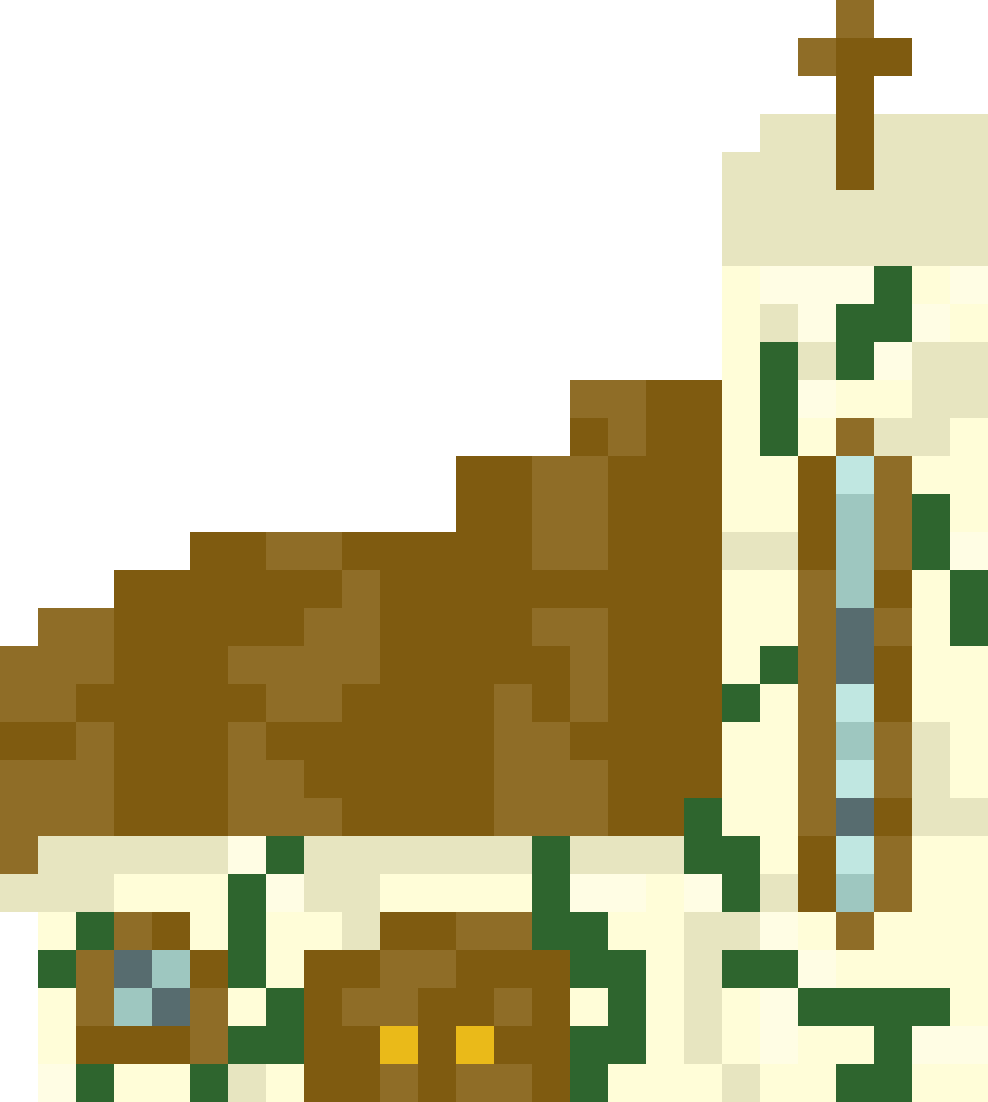
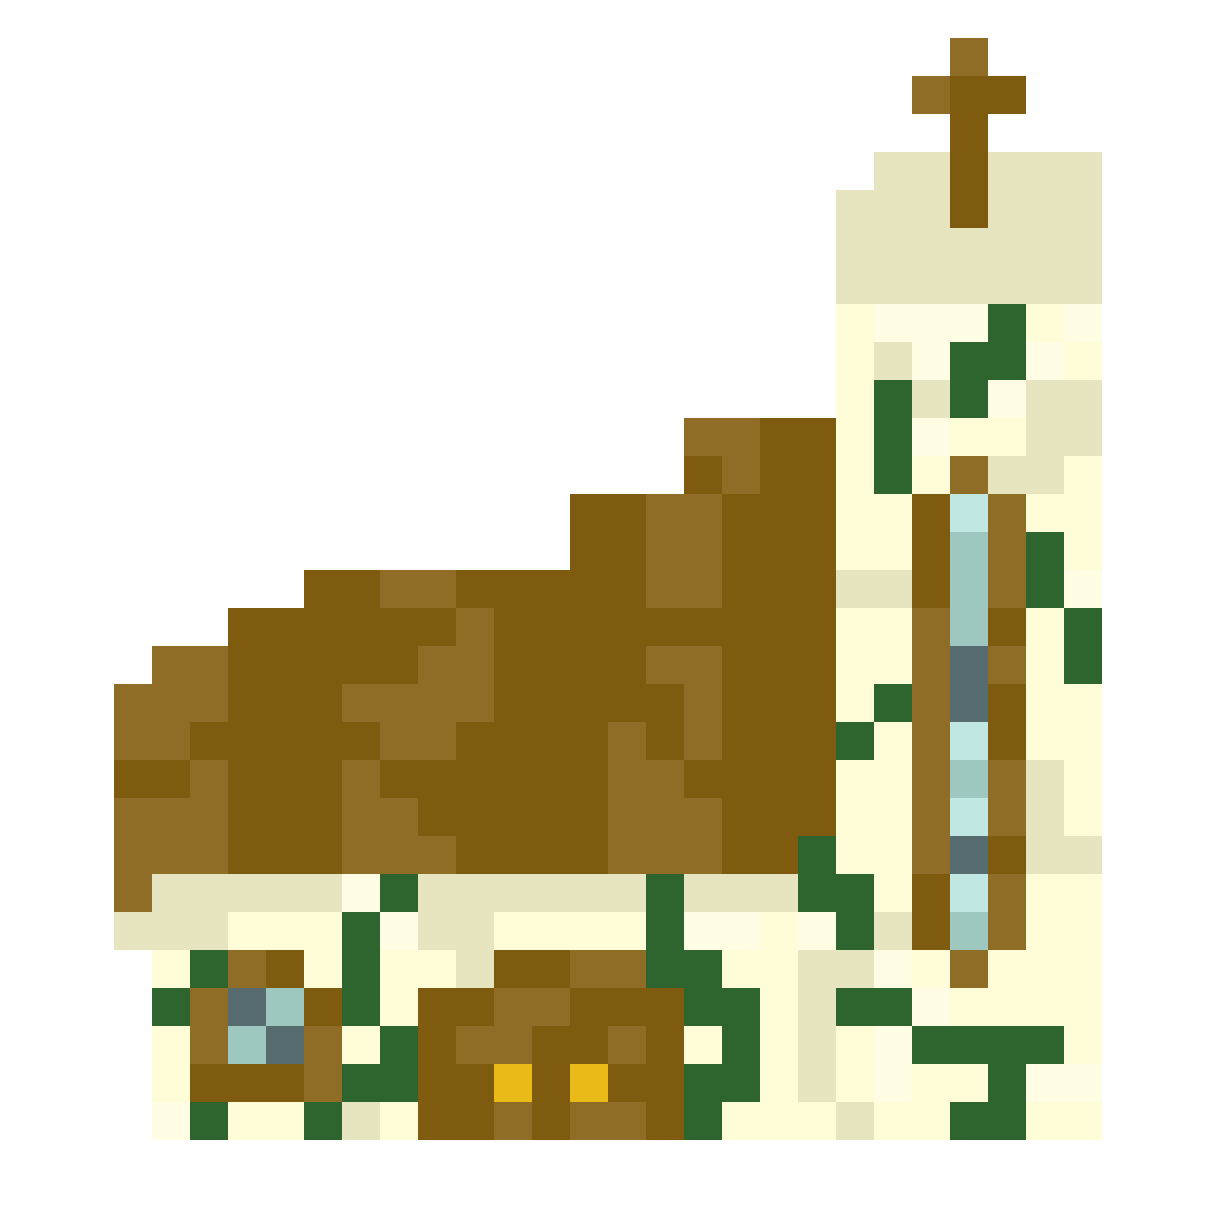
more assets

diff --git a/js/script.js b/js/script.js
@@ -266,7 +266,7 @@ function toggleColor() {
 
 function makeMap () {
 
-	addToCell(1, 1, ["img", ["src", "images/school.png", "class", "building school"],
+	addToCell(1, 1, ["img", ["src", "images/school1.png", "class", "building school"],
 		`img.building {
 			height: 250px;
 			width: 250px;
@@ -297,7 +297,7 @@ function makeMap () {
 		}`]
 	);
 
-	addToCell(1, 8, ["img", ["src", "images/pinkPineapple.png"],
+	addToCell(1, 8, ["img", ["src", "images/pinkPineapple1.png"],
 		`img {
 			height: 170px;
 			width: 170px;
@@ -305,7 +305,7 @@ function makeMap () {
 		}`]
 	);
 
-	addToCell(8, 8, ["img", ["src", "images/school.png", "class", "building school"],
+	addToCell(8, 8, ["img", ["src", "images/school1.png", "class", "building school"],
 		`img.building {
 			height: 200px;
 			width: 200px;
